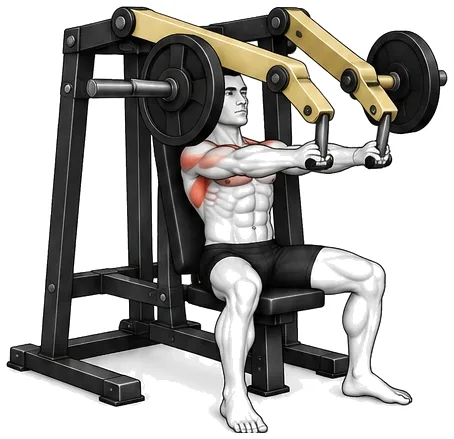
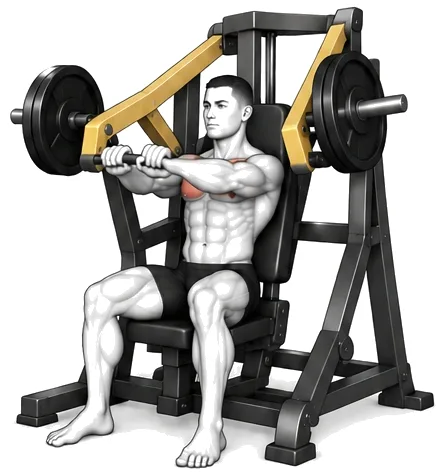
v2.9.1: Drei Uebungsbilder neu, Ueberblendung springt nicht mehr
Gabriel fielen drei Bilder auf: die Brustpresse an der Maschine zeigte im
Endbild eine andere Maschine, der Ausfallschritt drehte sich zur Seite,
und beim seated leg curl lag das Polster im Endbild vor dem Schienbein
statt hinter der Wade. In der Detailansicht blenden Start und Ende
ineinander, darum sprang das Bild sichtbar.

Neues Reihenbild neu-13 aus demselben ChatGPT-Chat und mit demselben
Stil-Vorbild wie am 28.09. Das Polster malte ChatGPT zweimal wieder vorn;
erst mit Richtungen im Bild stimmte es. Die Lehre steht in
docs/uebungsbilder-chatgpt.md, Rahmen in uebungsbilder-zuschnitt.mjs,
der Bildnachweis nennt die Nachbesserung.

Claude-Session: https://claude.ai/code/session_019CWyAjNVT4x8BZ4ognyjB5

diff --git a/docs/uebungsbilder-chatgpt.md b/docs/uebungsbilder-chatgpt.md
@@ -15,7 +15,14 @@ fuer neue Uebungen oder einzelne Nachbesserungen, damit der Stil gleich bleibt.
   Schneide-Skript rechnet damit (`hintergrund: 'weiss'`, `schilder: 0`).
 - **"seen from exactly the same camera angle"** gehoert in jeden Auftrag —
   ohne den Satz zeichnet ChatGPT das ENDE-Bild gern aus anderem Winkel, und
-  die Ueberblendung in der Detailansicht springt.
+  die Ueberblendung in der Detailansicht springt. Noch sicherer (02.10.2026,
+  neu-13): "START and END must look like two frames of the same video; the
+  machine or barbell is IDENTICAL in both halves, and the man does not turn".
+- **Wo etwas am Koerper anliegt, in Bildrichtungen beschreiben:** "behind
+  the lower legs" ignorierte ChatGPT beim Leg Curl zweimal und malte das
+  Polster vor das Schienbein; "the pad is on the RIGHT side of his lower
+  legs, towards the seat; on the LEFT side there is only empty space" traf
+  es beim ersten Versuch.
 - **Nur den Hauptmuskel rot** (primaer im Manifest). Welche Muskeln arbeiten,
   zeigt ohnehin die Muskelgrafik unter dem Bild.
 - Laeuft im selben Chat weiter, solange die Bilder passen; ChatGPT sieht dann

diff --git a/CHANGELOG.md b/CHANGELOG.md
@@ -3,6 +3,21 @@
 Alle nennenswerten Aenderungen am Keto Hybrid Fitness Tracker.
 Format: Datum + Stichpunkte je Version (SemVer).
 
+## [2.9.1] — 2026-10-02
+
+### Fixes
+- **Drei Uebungsbilder neu** (Wunsch Gabriel), damit die Ueberblendung von
+  Start zu Ende nicht mehr springt: Die Brustpresse an der Maschine zeigte im
+  Endbild eine andere Maschine, der Ausfallschritt drehte sich zur Seite, und
+  beim sitzenden Beinbeuger (seated leg curl) lag das untere Polster im
+  Endbild vor dem Schienbein statt hinter der Wade. Beim Ausfallschritt
+  leuchtet jetzt der vordere Oberschenkel, wie im Manifest vorgesehen.
+
+### Intern
+- Neues Reihenbild `scripts/uebungsbilder-quellen/neu-13.webp`, Rahmen in
+  `scripts/uebungsbilder-zuschnitt.mjs`; die Prompt-Lehren stehen in
+  `docs/uebungsbilder-chatgpt.md`.
+
 ## Cloud-Daten — 2026-10-02 (keine neue App-Version)
 - **Geraete wie im Studio** (Auftrag Gabriel): lunges auf Langhantel, hip
   thrusts und chest supported row auf Maschine (Gewichte). Die Standardliste

diff --git a/public/uebungsbilder/LIZENZ.md b/public/uebungsbilder/LIZENZ.md
@@ -9,10 +9,12 @@ auf `"ki"`.
 
 Alle 36 Uebungen: am 28.09.2026 mit ChatGPT neu erstellt, je Auftrag drei
 Uebungen mit Start- und Endhaltung, alle nach demselben Stil-Vorbild (gute
-Figuren der frueheren KI-Bilder aus Version 2.1.0 bis 2.2.0).
+Figuren der frueheren KI-Bilder aus Version 2.1.0 bis 2.2.0). Am 02.10.2026
+im selben Verfahren nachgebessert: Brustpresse an der Maschine,
+Ausfallschritt und sitzender Beinbeuger.
 
 Zugeschnitten mit `scripts/uebungsbilder-schneiden.mjs` aus den Reihenbildern
-`neu-01.webp` bis `neu-12.webp` in `scripts/uebungsbilder-quellen/`: je
+`neu-01.webp` bis `neu-13.webp` in `scripts/uebungsbilder-quellen/`: je
 Uebung zwei Bewegungsphasen (die Plank eine) und ein Vorschaubild. Ablauf und
 Prompt-Vorlage: `docs/uebungsbilder-chatgpt.md`.
 
